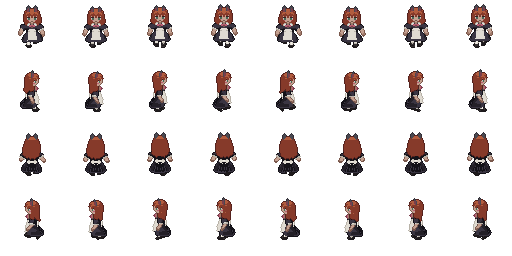
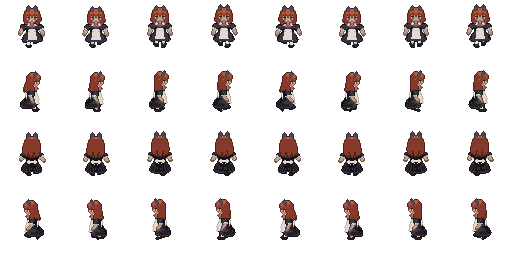
arte(maid): cabeza derecha de perfil, cabeza en la cara y arreglos de variantes
- La cabeza se inclina hacia la cámara solo de frente; de perfil y de espaldas mira al
  frente (reposo y caminata).
- La forma de la cabeza pasa al módulo de cara: cambiar de cuerpo no la deforma.
- Pelo largo y bob con mechones y puntas oscuras de espaldas, raya en la coronilla y
  cuello del vestido por atrás. Bob corregido de espaldas y de perfil; maniquí de
  maid con el ancho de pelo de la maid, cuello de dos filas y pies separados.
- Clavícula y mano de perfil disponibles en el cuerpo (sin usar todavía).
- Hojas del juego regeneradas con sus normales.

diff --git a/art/source/maid_gato/3d/anim/caminar_gen.py b/art/source/maid_gato/3d/anim/caminar_gen.py
@@ -99,6 +99,9 @@ LARGO = [0.93, 0.93, 1, 1]
 DELANTAL_FIJO = True
 # Reposo del cuello: los ojos ya se redondean en el modelo / neck rest: the model now rounds the eyes
 NECK_INCLINAR = -10
+# La cara mira a la cámara solo de frente: de perfil -10 levantaba el mentón y achicaba la cara; de espaldas, 0
+# (animacion.md §7.12) / the face looks at the camera only from the front: in profile -10 raised the chin
+POR_DIRECCION = {d: {"pose": {"neck": {"inclinar": 0}}} for d in ("east", "west", "north")}
 # Brazos separados del torso (grados): base y cuánto se abre el brazo que va adelante. Va con el vaivén, así c0-c3 y
 # su espejo valen lo mismo. Ronda 4: con el codo doblado la mano de adelante tapaba el hueco de frente (1 fila en
 # c0/c4); 16 + 4k deja 2 filas o más en S y N en todos los cuadros.
@@ -249,7 +252,8 @@ def build():
         motion.resorte(frames, dst, drive, ms=[MS] * n, **SPRING)
     if DELANTAL_FIJO: fijar_delantal(frames)
     for f in frames: del f["pose"]["_vaiven"]
-    return {"nombre": "caminar", "bucle": True, "lienzo": 64, "duraciones_ms": [MS] * n, "cuadros": frames}
+    return {"nombre": "caminar", "bucle": True, "lienzo": 64, "duraciones_ms": [MS] * n, "por_direccion": POR_DIRECCION,
+            "cuadros": frames}
 
 
 def report(anim):
